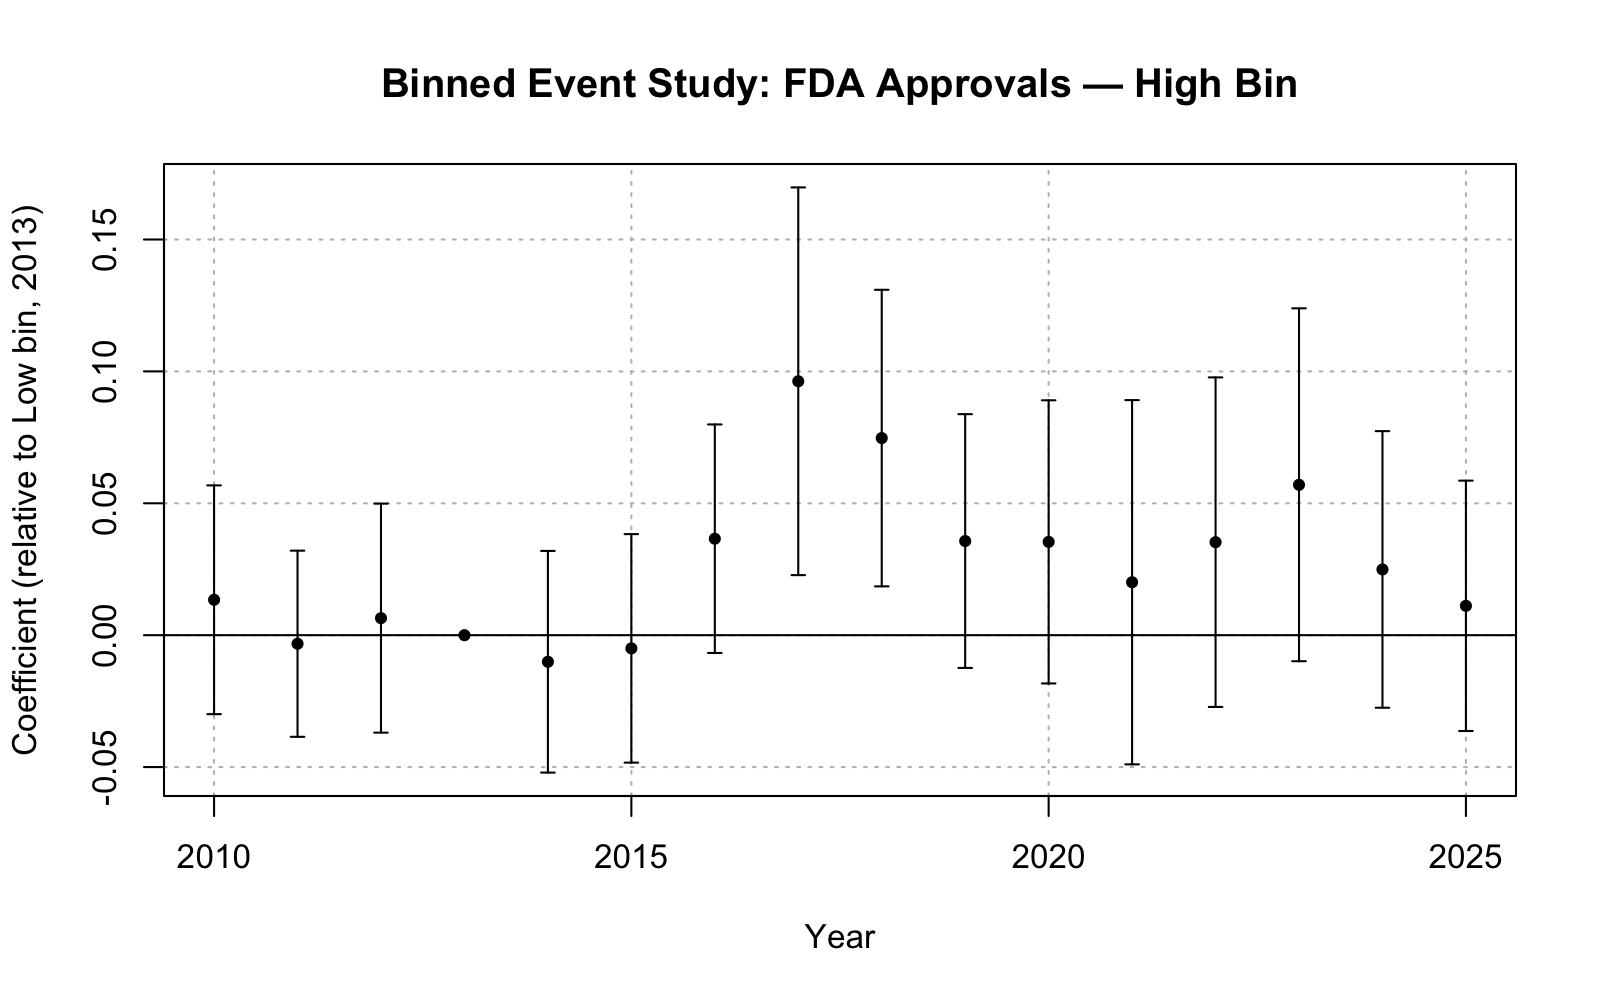
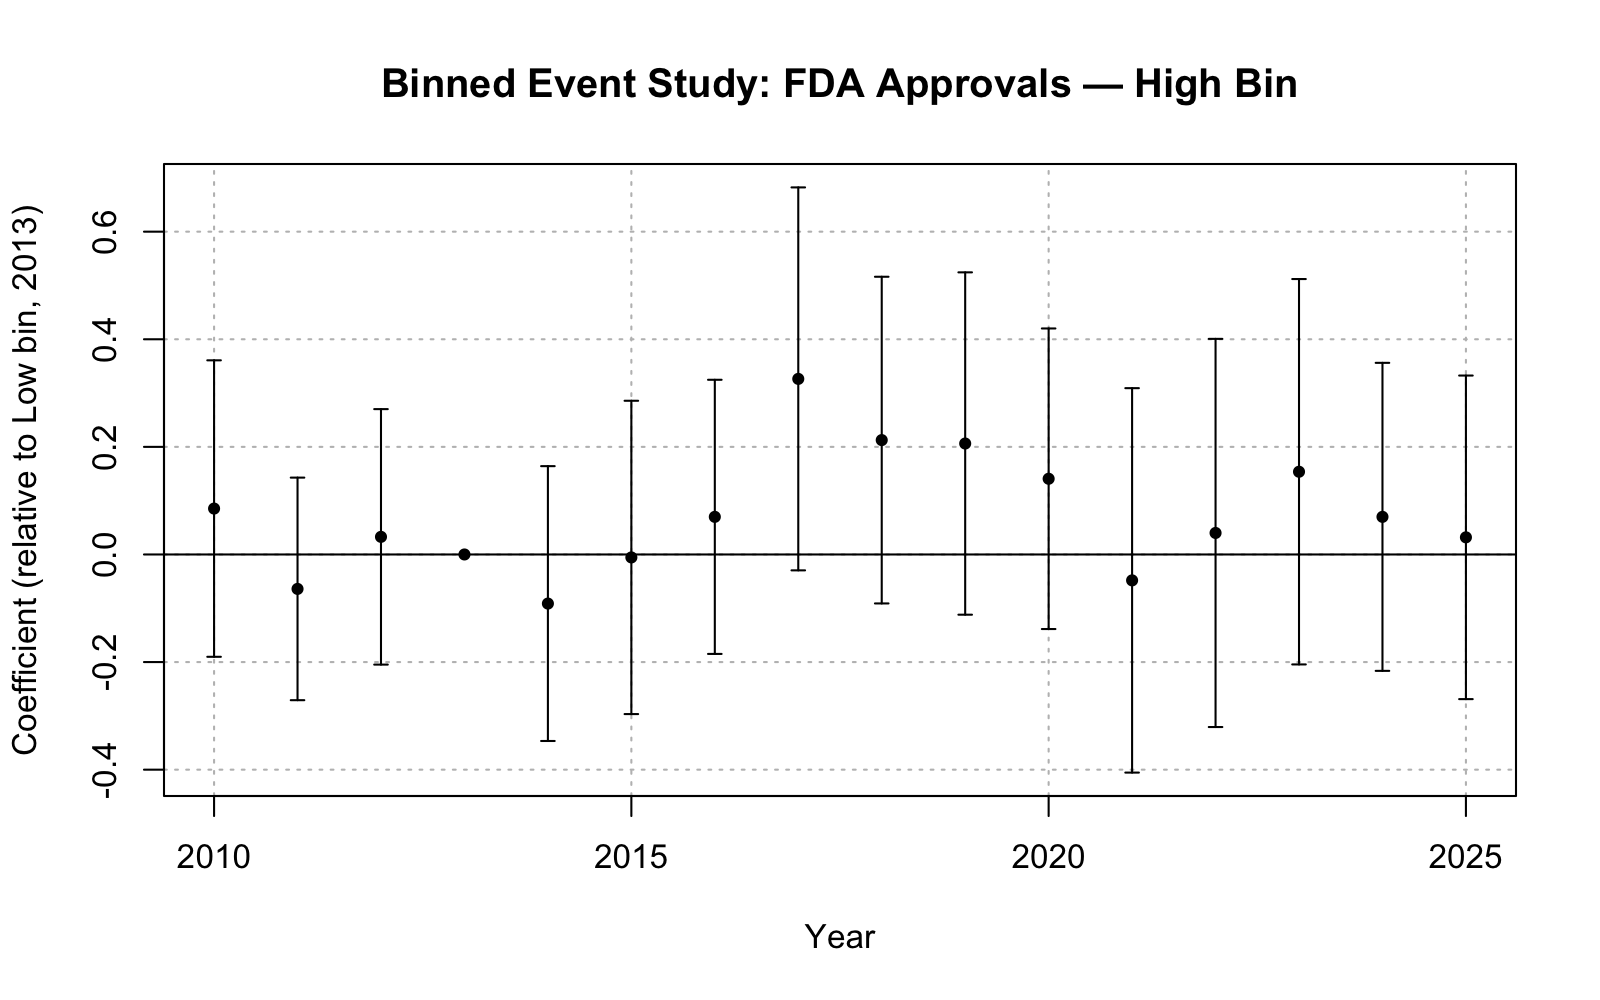
robustness output - FDA with changed medicaid bin

diff --git a/output/robustness/binned_treatment/binned_fda_models.tex b/output/robustness/binned_treatment/binned_fda_models.tex
@@ -12,68 +12,68 @@ hline{62}={1,2}{solid, black, 0.05em},
 }                     %% tabularray inner close
 \toprule
 & FDA Approvals: Binned \\ \midrule %% TinyTableHeader
-approval\_year = 2010 × bin\_medium & \num{-0.005}  \\
-& (\num{0.011}) \\
-approval\_year = 2011 × bin\_medium & \num{-0.005}  \\
-& (\num{0.010}) \\
-approval\_year = 2012 × bin\_medium & \num{-0.006}  \\
-& (\num{0.012}) \\
-approval\_year = 2014 × bin\_medium & \num{-0.009}  \\
-& (\num{0.016}) \\
-approval\_year = 2015 × bin\_medium & \num{-0.010}  \\
-& (\num{0.013}) \\
-approval\_year = 2016 × bin\_medium & \num{0.016}   \\
-& (\num{0.014}) \\
-approval\_year = 2017 × bin\_medium & \num{0.051}*  \\
-& (\num{0.021}) \\
-approval\_year = 2018 × bin\_medium & \num{0.050}** \\
-& (\num{0.015}) \\
-approval\_year = 2019 × bin\_medium & \num{0.002}   \\
-& (\num{0.014}) \\
-approval\_year = 2020 × bin\_medium & \num{0.033}*  \\
-& (\num{0.016}) \\
-approval\_year = 2021 × bin\_medium & \num{0.021}   \\
-& (\num{0.020}) \\
-approval\_year = 2022 × bin\_medium & \num{0.035}*  \\
-& (\num{0.017}) \\
-approval\_year = 2023 × bin\_medium & \num{0.038}   \\
-& (\num{0.024}) \\
-approval\_year = 2024 × bin\_medium & \num{0.023}   \\
-& (\num{0.020}) \\
-approval\_year = 2025 × bin\_medium & \num{0.012}   \\
-& (\num{0.013}) \\
-approval\_year = 2010 × bin\_high   & \num{0.013}   \\
-& (\num{0.022}) \\
-approval\_year = 2011 × bin\_high   & \num{-0.003}  \\
-& (\num{0.018}) \\
-approval\_year = 2012 × bin\_high   & \num{0.006}   \\
-& (\num{0.022}) \\
-approval\_year = 2014 × bin\_high   & \num{-0.010}  \\
-& (\num{0.021}) \\
+approval\_year = 2010 × bin\_medium & \num{0.042}   \\
+& (\num{0.055}) \\
+approval\_year = 2011 × bin\_medium & \num{0.058}   \\
+& (\num{0.065}) \\
+approval\_year = 2012 × bin\_medium & \num{0.042}   \\
+& (\num{0.077}) \\
+approval\_year = 2014 × bin\_medium & \num{0.047}   \\
+& (\num{0.067}) \\
+approval\_year = 2015 × bin\_medium & \num{0.006}   \\
+& (\num{0.073}) \\
+approval\_year = 2016 × bin\_medium & \num{0.158}   \\
+& (\num{0.101}) \\
+approval\_year = 2017 × bin\_medium & \num{0.239}*  \\
+& (\num{0.114}) \\
+approval\_year = 2018 × bin\_medium & \num{0.185}*  \\
+& (\num{0.093}) \\
+approval\_year = 2019 × bin\_medium & \num{0.071}   \\
+& (\num{0.077}) \\
+approval\_year = 2020 × bin\_medium & \num{0.012}   \\
+& (\num{0.092}) \\
+approval\_year = 2021 × bin\_medium & \num{0.127}   \\
+& (\num{0.105}) \\
+approval\_year = 2022 × bin\_medium & \num{0.101}   \\
+& (\num{0.075}) \\
+approval\_year = 2023 × bin\_medium & \num{0.152}   \\
+& (\num{0.087}) \\
+approval\_year = 2024 × bin\_medium & \num{0.037}   \\
+& (\num{0.066}) \\
+approval\_year = 2025 × bin\_medium & \num{0.010}   \\
+& (\num{0.067}) \\
+approval\_year = 2010 × bin\_high   & \num{0.085}   \\
+& (\num{0.140}) \\
+approval\_year = 2011 × bin\_high   & \num{-0.064}  \\
+& (\num{0.105}) \\
+approval\_year = 2012 × bin\_high   & \num{0.033}   \\
+& (\num{0.121}) \\
+approval\_year = 2014 × bin\_high   & \num{-0.091}  \\
+& (\num{0.130}) \\
 approval\_year = 2015 × bin\_high   & \num{-0.005}  \\
-& (\num{0.022}) \\
-approval\_year = 2016 × bin\_high   & \num{0.037}   \\
-& (\num{0.022}) \\
-approval\_year = 2017 × bin\_high   & \num{0.096}*  \\
-& (\num{0.037}) \\
-approval\_year = 2018 × bin\_high   & \num{0.075}** \\
-& (\num{0.029}) \\
-approval\_year = 2019 × bin\_high   & \num{0.036}   \\
-& (\num{0.024}) \\
-approval\_year = 2020 × bin\_high   & \num{0.035}   \\
-& (\num{0.027}) \\
-approval\_year = 2021 × bin\_high   & \num{0.020}   \\
-& (\num{0.035}) \\
-approval\_year = 2022 × bin\_high   & \num{0.035}   \\
-& (\num{0.032}) \\
-approval\_year = 2023 × bin\_high   & \num{0.057}   \\
-& (\num{0.034}) \\
-approval\_year = 2024 × bin\_high   & \num{0.025}   \\
-& (\num{0.027}) \\
-approval\_year = 2025 × bin\_high   & \num{0.011}   \\
-& (\num{0.024}) \\
-Num. obs.                             & \num{604800}  \\
-R2                                    & \num{0.314}   \\
+& (\num{0.148}) \\
+approval\_year = 2016 × bin\_high   & \num{0.070}   \\
+& (\num{0.130}) \\
+approval\_year = 2017 × bin\_high   & \num{0.326}   \\
+& (\num{0.181}) \\
+approval\_year = 2018 × bin\_high   & \num{0.213}   \\
+& (\num{0.155}) \\
+approval\_year = 2019 × bin\_high   & \num{0.206}   \\
+& (\num{0.162}) \\
+approval\_year = 2020 × bin\_high   & \num{0.141}   \\
+& (\num{0.142}) \\
+approval\_year = 2021 × bin\_high   & \num{-0.048}  \\
+& (\num{0.182}) \\
+approval\_year = 2022 × bin\_high   & \num{0.040}   \\
+& (\num{0.184}) \\
+approval\_year = 2023 × bin\_high   & \num{0.154}   \\
+& (\num{0.182}) \\
+approval\_year = 2024 × bin\_high   & \num{0.070}   \\
+& (\num{0.146}) \\
+approval\_year = 2025 × bin\_high   & \num{0.032}   \\
+& (\num{0.153}) \\
+Num. obs.                             & \num{151200}  \\
+R2                                    & \num{0.609}   \\
 \bottomrule
 \end{talltblr}
 \end{table}
